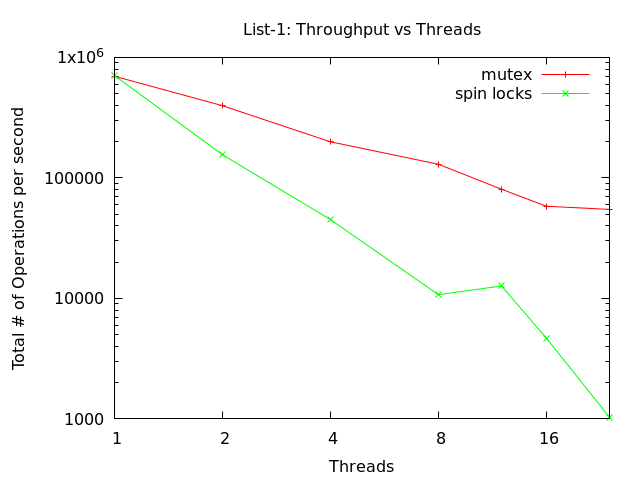
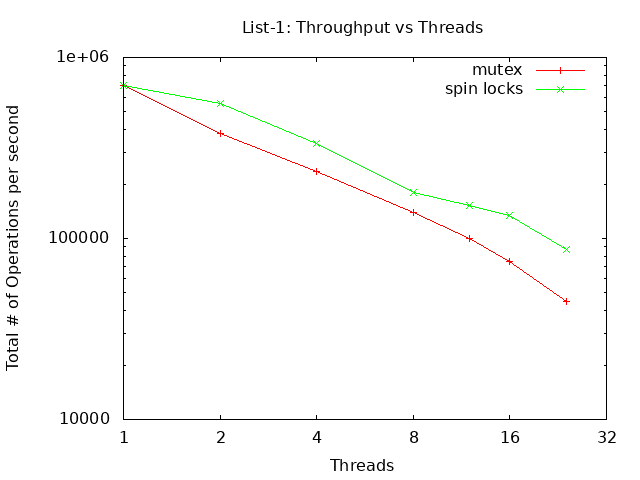
Update files

diff --git a/proj2b/proj2b/lab2_list.c b/proj2b/proj2b/lab2_list.c
@@ -101,7 +101,7 @@ void * thread_start_routine(void * threadarg) {
 	    }
         } else if ( * arg_sync == 's') {
 	    for (int i = 0; i < num_lists; i++) {
-		while (__sync_lock_test_and_set( & spin_lock_arr[list_index], 1)) {
+		while (__sync_lock_test_and_set( & spin_lock_arr[i], 1)) {
 		    continue;
 		}
 	    }
@@ -127,7 +127,7 @@ void * thread_start_routine(void * threadarg) {
 	    }
         } else if ( * arg_sync == 's') {
 	    for (int i = 0; i < num_lists; i++) {
-		__sync_lock_release( & spin_lock_arr[list_index]);
+		__sync_lock_release( & spin_lock_arr[i]);
 	    }
         }
     }
